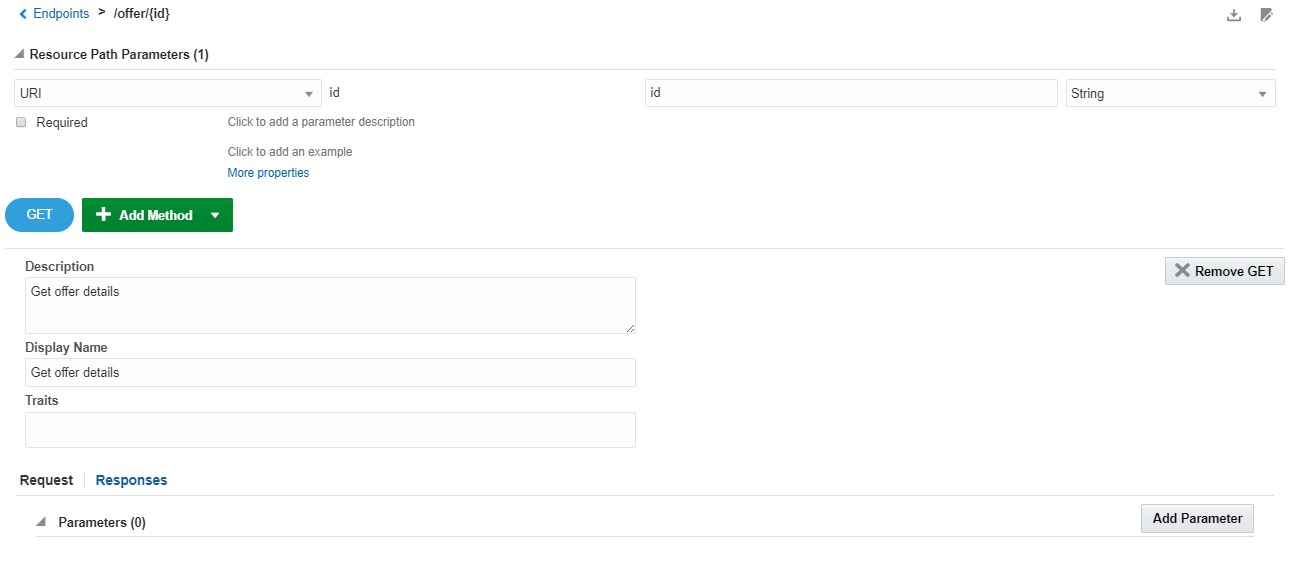
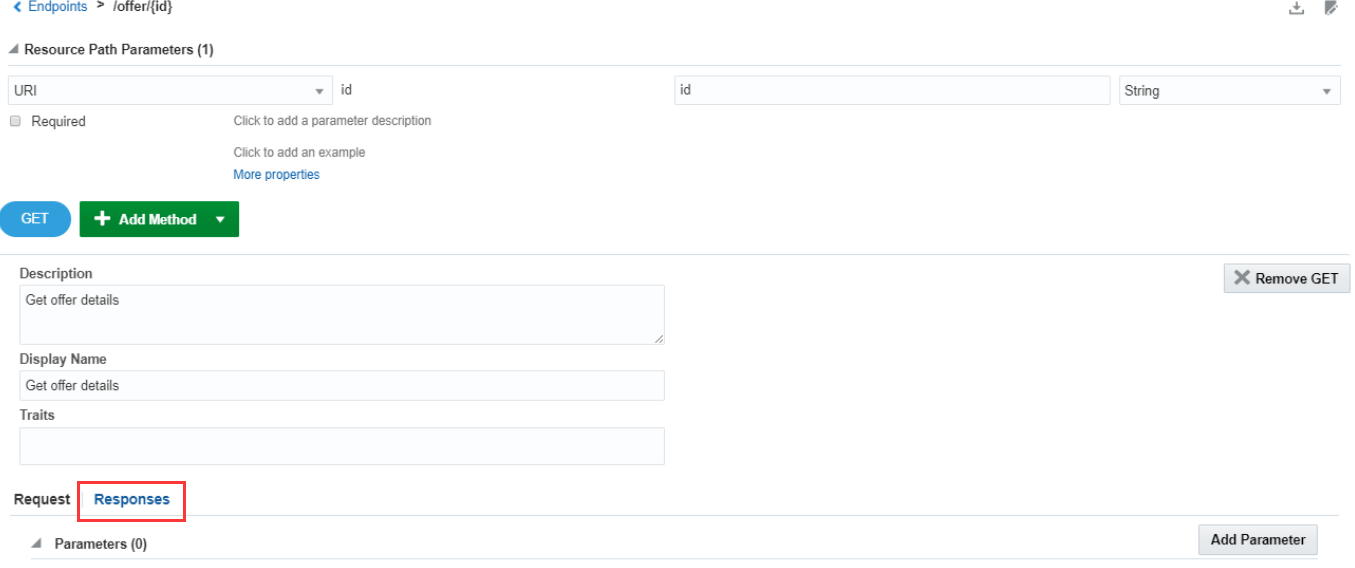
Updated 403 in the adding responses step

diff --git a/Mobile Service and App/403-MobileLab.md b/Mobile Service and App/403-MobileLab.md
@@ -77,9 +77,7 @@ Click on “Create” on the bottom right.
    - Enter `Get offer details` as the “Description” and `Get offer details` as the “Display Name” for the method. Click on “Responses” link at the bottom.
 ![](../common/images/mobile/403-Adding_Method_Info.png)
 
-   - Adding response: Click on "Responses" and the "Add Response".
-   ![](../common/images/mobile/403-Adding_Response.png)
-
+   - Adding response: Click on "Add Response".
    ![](../common/images/mobile/403-Adding_Response_Add.png)
 
     - Adding response media type: Click on "Add Media Type".
